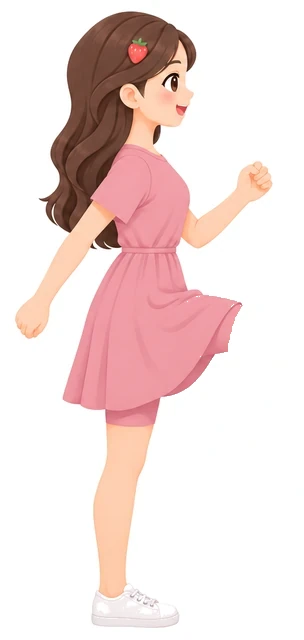
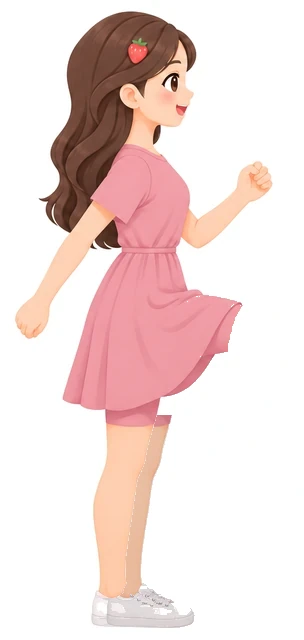
原地踏步「腳放下」格補上另一隻腳（不再像斷腿）；繪圖指令改斜前方＋右格雙腳站立，等重畫

Changed region(s): [[0.3849, 0.625, 0.6513, 1.0], [0.3257, 0.9375, 0.3849, 1.0]]

diff --git a/index.html b/index.html
@@ -1196,7 +1196,7 @@ function makeFig(id,host){
   const m=MOVES[id];
   const IM=curImgs()[id],dir=CH().dir;
   host.classList.toggle('photo',!!IM);
-  if(IM){host.innerHTML=`<div class="frames${IM.bob?' bob':''}${IM.anim?' bob an-'+IM.anim:''}" style="--per:${m.period*1.15}s"><img class="fa" src="${dir}${id}-a.webp?v=1124" alt="${m.name}：起始動作"><img class="fb" src="${dir}${id}-b.webp?v=1124" alt="${m.name}：結束動作"></div>`;return {paused:false}}const A={...BASE[m.base],...m.a};const B={...A,...m.b};const flat=m.base==='front'||m.base==='seatF';
+  if(IM){host.innerHTML=`<div class="frames${IM.bob?' bob':''}${IM.anim?' bob an-'+IM.anim:''}" style="--per:${m.period*1.15}s"><img class="fa" src="${dir}${id}-a.webp?v=1124b" alt="${m.name}：起始動作"><img class="fb" src="${dir}${id}-b.webp?v=1124b" alt="${m.name}：結束動作"></div>`;return {paused:false}}const A={...BASE[m.base],...m.a};const B={...A,...m.b};const flat=m.base==='front'||m.base==='seatF';
   const svg=document.createElementNS(NS,'svg');svg.setAttribute('viewBox','0 0 200 200');svg.setAttribute('role','img');svg.setAttribute('aria-label',m.name+'示範');
   svg.innerHTML='<line class="floor" x1="6" y1="187" x2="194" y2="187"/>'+m.props.map(p=>PROPS[p]).join('');
   const P={};
